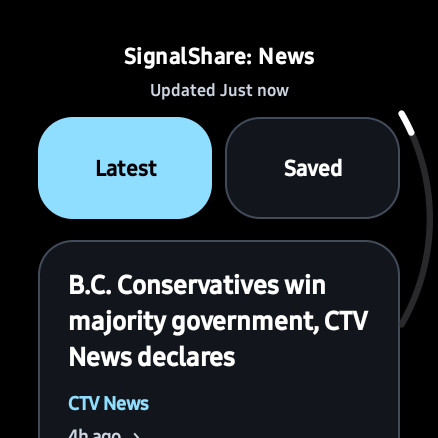
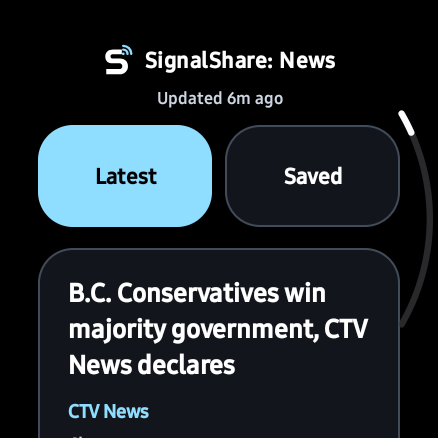
feat: add SignalShare News branding

diff --git a/app/src/main/java/com/nocturne/news/MainActivity.java b/app/src/main/java/com/nocturne/news/MainActivity.java
@@ -17,6 +17,7 @@ import android.view.MotionEvent;
 import android.view.View;
 import android.view.ViewConfiguration;
 import android.widget.LinearLayout;
+import android.widget.ImageView;
 import android.widget.ScrollView;
 import android.widget.TextView;
 import androidx.wear.remote.interactions.RemoteActivityHelper;
@@ -102,7 +103,10 @@ public final class MainActivity extends Activity {
     }
     private void showHome(int y) {
         selected=null;screen(y);
-        TextView masthead=ui.text(getString(R.string.app_name),13,ReaderUi.WHITE,true);masthead.setLetterSpacing(.02f);masthead.setGravity(Gravity.CENTER);content.addView(masthead);
+        LinearLayout brandHeader=new LinearLayout(this);brandHeader.setGravity(Gravity.CENTER);
+        ImageView brand=new ImageView(this);brand.setImageResource(R.drawable.ic_signalshare_mark);brand.setImportantForAccessibility(View.IMPORTANT_FOR_ACCESSIBILITY_NO);
+        LinearLayout.LayoutParams brandSize=new LinearLayout.LayoutParams(ui.dp(16),ui.dp(16));brandSize.setMarginEnd(ui.dp(4));brandHeader.addView(brand,brandSize);
+        TextView masthead=ui.text(getString(R.string.app_name),13,ReaderUi.WHITE,true);masthead.setLetterSpacing(.02f);masthead.setGravity(Gravity.CENTER);brandHeader.addView(masthead,new LinearLayout.LayoutParams(-2,-2));content.addView(brandHeader);
         ui.gap(content,5);
         status=ui.text("",10,ReaderUi.MUTED,false);status.setId(R.id.reader_status);status.setGravity(Gravity.CENTER);status.setAccessibilityLiveRegion(View.ACCESSIBILITY_LIVE_REGION_POLITE);content.addView(status);updateStatus();
         ui.gap(content,8);

diff --git a/branding/README.md b/branding/README.md
@@ -1,0 +1,17 @@
+# SignalShare: News branding
+
+An original geometric S with a broadcast accent, designed for high contrast and small round watch displays.
+
+- `signalshare-news-icon.svg`: square icon with the dark background.
+- `signalshare-news-icon-512.png`: 512-by-512 PNG export for listing/marketing use.
+- `signalshare-news-mark.svg`: transparent color mark.
+- `signalshare-news-monochrome.svg`: transparent white mark for tinting.
+- `signalshare-news-wordmark.svg` and `.png`: horizontal brand lockup.
+
+Colors: ink `#071018`, white `#FFFFFF`, pale blue `#90DEFF`.
+
+The Android launcher has independent foreground, background and monochrome layers. The important artwork fits within the central 66-by-66 region of a 108-by-108 canvas. The compact in-app and complication vectors use a tighter 72-by-72 viewport. The icon includes no text, so it remains recognizable at small sizes.
+
+Native resources are in `app/src/main/res/drawable/ic_signalshare_*.xml`, `drawable/ic_news.xml` and `mipmap-anydpi-v26/ic_launcher.xml`. Keep their paths consistent with the SVG source when editing the mark.
+
+These project-created assets are included under the repository's Apache-2.0 copyright license. As described by Apache-2.0, the license does not grant trademark rights or permission to imply that a fork is the official SignalShare distribution.

diff --git a/docs/VALIDATION.md b/docs/VALIDATION.md
@@ -14,3 +14,11 @@ Verified on 2026-10-25.
 Not verified: paired-phone browser delivery, physical rotation of the hardware bezel, long-duration battery usage, natural timed five-minute rollover and 15-minute refresh intervals. The complication selection logic was exercised with controlled timestamps; the actual RSS fetch ran over HTTPS.
 
 Build output and device-specific debugging credentials are not stored in this repository.
+
+## Version 1.2.1 branding update
+
+- Original vector mark added to the adaptive launcher, application masthead and tintable complication resource.
+- Build and Android lint completed successfully with no lint errors.
+- Version 1.2.1 installed in place on the physical Watch8 Classic; masthead logo inspected on the watch with the compact typography retained.
+- Square and circular logo previews inspected; launcher artwork fits Android's central adaptive-icon safe region. The square PNG export is 512-by-512 pixels.
+- Reader and background-feed logic were not changed; the full reader instrumentation suite was not repeated for this visual update.

diff --git a/README.md b/README.md
@@ -1,3 +1,5 @@
+<img src="branding/signalshare-news-wordmark.svg" width="600" alt="SignalShare News logo">
+
 # SignalShare: News
 
 A high-contrast news bulletin reader for Wear OS, with offline saved stories and a background Google News complication for compatible watchfaces.
@@ -30,6 +32,10 @@ Google News RSS supplies headlines and related coverage, rather than complete pu
 - A connected phone for the Read on phone action, or an installed watch browser for local web links.
 
 The current feed is Canada / English. No account or API key is required.
+
+## Branding
+
+Version 1.2.1 adds an original SignalShare mark: a white S with a pale-blue broadcast accent on a dark background. It is used in the adaptive launcher icon, app header, and the tintable complication icon. Editable SVGs, a wordmark and a 512px square icon are in [branding/](branding/README.md).
 
 ## Build
 
